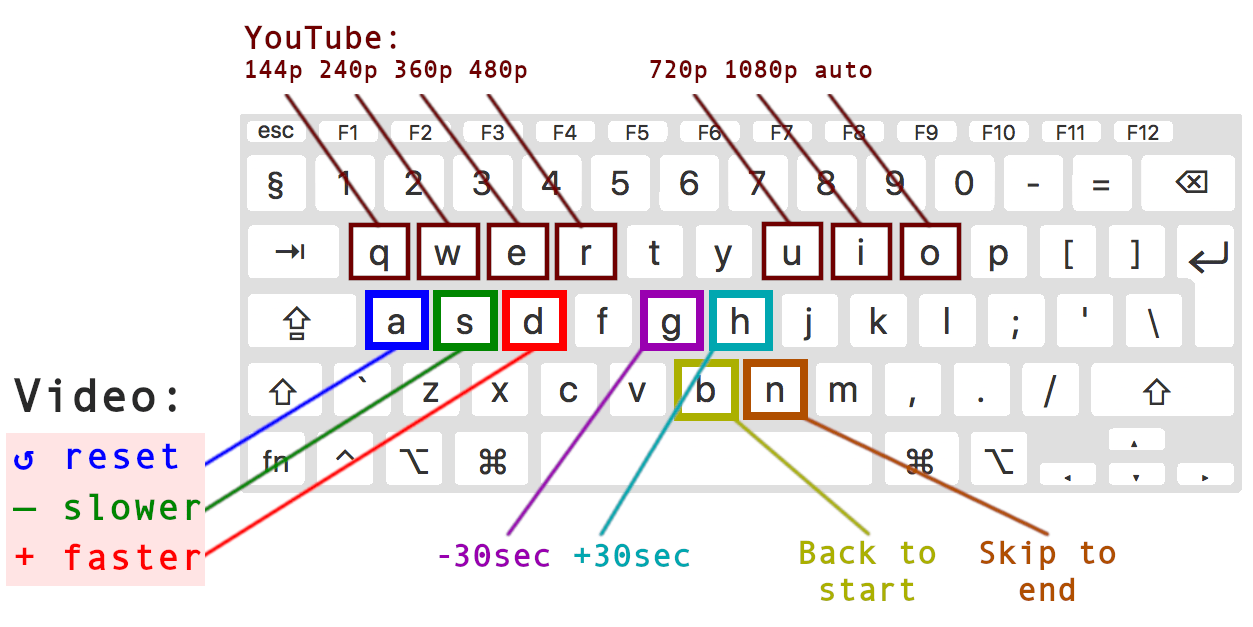
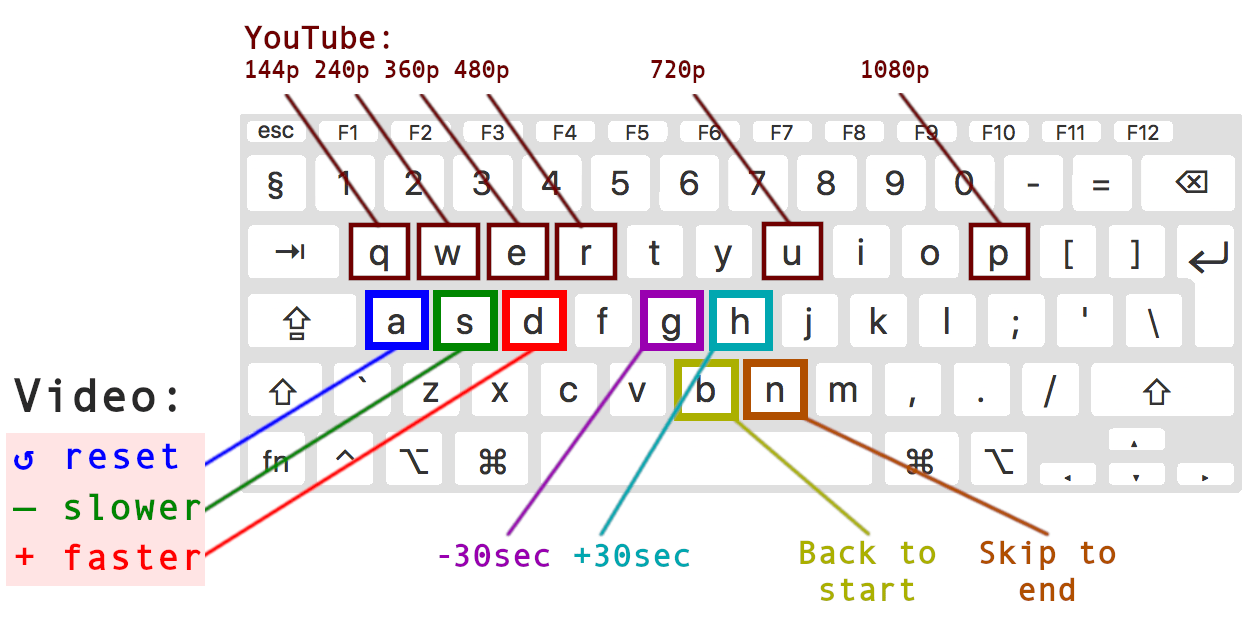
Fix Trusted Types error by marking HTML as trusted | Fix 1080p resolution not working | Update help image

diff --git a/index.html b/index.html
@@ -1,6 +1,6 @@
 <p>Drag this link into your bookmarks bar to install Video Speed Controller Bookmarklet</p>
 <p><a href="
 javascript:(function(){
-var%20speed%3D1.5%3Bvar%20seek%3D0%3Bvar%20player%3Ddocument.getElementById(%22movie_player%22)%3Bif(document.activeElement){document.activeElement.blur()}function%20addEvent(element%2CeventName%2Ccallback){if(element.addEventListener){element.addEventListener(eventName%2Ccallback%2Cfalse)}else%20if(element.attachEvent){element.attachEvent(%22on%22%2BeventName%2Ccallback)}else{element%5B%22on%22%2BeventName%5D%3Dcallback}}function%20clamp(num%2Cmin%2Cmax){return%20num<%3Dmin%3Fmin%3Anum>%3Dmax%3Fmax%3Anum}function%20YTQuality(q){if(!player)return%20false%3Bswitch(q){case%22q%22%3Aplayer.setPlaybackQualityRange(%22tiny%22)%3Bbreak%3Bcase%22w%22%3Aplayer.setPlaybackQualityRange(%22small%22)%3Bbreak%3Bcase%22e%22%3Aplayer.setPlaybackQualityRange(%22medium%22)%3Bbreak%3Bcase%22r%22%3Aplayer.setPlaybackQualityRange(%22large%22)%3Bbreak%3Bcase%22u%22%3Aplayer.setPlaybackQualityRange(%22hd720%22)%3Bbreak%3Bcase%22i%22%3Aplayer.setPlaybackQualityRange(%22hd1080%22)%3Bbreak%3Bcase%22o%22%3Aplayer.setPlaybackQualityRange(%22auto%22)%3Bbreak}switch(player.getPlaybackQuality()){case%22auto%22%3Areturn%22auto%22%3Bcase%22tiny%22%3Areturn%22144p%22%3Bcase%22small%22%3Areturn%22240p%22%3Bcase%22medium%22%3Areturn%22360p%22%3Bcase%22large%22%3Areturn%22480p%22%3Bcase%22hd720%22%3Areturn%22720p%22%3Bcase%22hd1080%22%3Areturn%221080p%22}}addEvent(document%2C%22keypress%22%2Cfunction(e){var%20target%3De.target||e.srcElement%3Bif(/INPUT|TEXTAREA|SELECT|BUTTON/.test(target.nodeName))return%3Be%3De||window.event%3Bvar%20ytq%3DYTQuality(e.key)%3Bif(e.key%3D%3D%22a%22)speed%3D1%3Bif(e.key%3D%3D%22s%22){speed%3Dspeed<%3D.25%3F.05%3Aspeed-.25}if(e.key%3D%3D%22d%22){if(speed%3D%3D.05)speed%3D0%3Bspeed%2B%3D.25}speed%3Dclamp(speed%2C0%2C6)%3Bvar%20speedlabels%3Ddocument.getElementsByClassName(%22speedlabel%22)%3Bfor(var%20i%3D0%3Bi<speedlabels.length%3Bi%2B%2B){speedlabels%5Bi%5D.innerHTML%3Dspeed%2B%22x%22%2B(ytq%3F%22<br>%22%2Bytq%3A%22%22)}if(e.key%3D%3D%22g%22){seek%3D-30}if(e.key%3D%3D%22h%22){seek%3D30}if(e.key%3D%3D%22b%22){seek%3D-1e6}if(e.key%3D%3D%22n%22){seek%3D1e6}})%3BsetInterval(function(){videospeed()}%2C500)%3Bfunction%20videospeed(){var%20style%3D%22\t<style>\t\t.speedlabel{\t\t\tposition%3Aabsolute%3B\t\t\tz-index%3A999%3B\t\t\twidth%3A30px%3B\t\t\tleft%3A10px%3B\t\t\ttop%3A10px%3B\t\t\ttext-align%3A%20center%3B\t\t\tcolor%3A%23ccc%3B\t\t\tbackground-color%3Argba(0%2C0%2C0%2C0.3)%3B\t\t}\t</style>\t%22%3Bvideos%3Ddocument.querySelectorAll(%22video%22)%3Bfor(var%20i%3D0%3Bi<videos.length%3Bi%2B%2B){if(videos%5Bi%5D%26%26videos%5Bi%5D.readyState>%3D2){videos%5Bi%5D.playbackRate%3Dspeed%3Bvideos%5Bi%5D.mozPreservesPitch%3Dvideos%5Bi%5D.webkitPreservesPitch%3Dvideos%5Bi%5D.preservePitch%3Dtrue}if(seek!%3D0){videos%5Bi%5D.currentTime%2B%3Dseek%3Bseek%3D0}if(!videos%5Bi%5D.hasAttribute(%22speedlabel%22)){videos%5Bi%5D.setAttribute(%22speedlabel%22%2C%22true%22)%3Bvar%20ytq%3DYTQuality()%3Bvar%20speedlabel%3D'<div%20class%3D%22speedlabel%22>'%2Bspeed%2B%22x%22%2B(ytq%3F%22<br>%22%2Bytq%3A%22%22)%2B%22</div>%22%3Bvideos%5Bi%5D.insertAdjacentHTML(%22beforebegin%22%2Cspeedlabel%2Bstyle)}}}})()
+var%20speed%3D1.5%3Bvar%20seek%3D0%3Bvar%20player%3Ddocument.getElementById(%22movie_player%22)%3Bif(document.activeElement){document.activeElement.blur()}function%20addEvent(element%2CeventName%2Ccallback){if(element.addEventListener){element.addEventListener(eventName%2Ccallback%2Cfalse)}else%20if(element.attachEvent){element.attachEvent(%22on%22%2BeventName%2Ccallback)}else{element%5B%22on%22%2BeventName%5D%3Dcallback}}function%20clamp(num%2Cmin%2Cmax){return%20num<%3Dmin%3Fmin%3Anum>%3Dmax%3Fmax%3Anum}function%20YTQuality(q){if(!player)return%20false%3Bswitch(q){case%22q%22%3Aplayer.setPlaybackQualityRange(%22tiny%22)%3Bbreak%3Bcase%22w%22%3Aplayer.setPlaybackQualityRange(%22small%22)%3Bbreak%3Bcase%22e%22%3Aplayer.setPlaybackQualityRange(%22medium%22)%3Bbreak%3Bcase%22r%22%3Aplayer.setPlaybackQualityRange(%22large%22)%3Bbreak%3Bcase%22u%22%3Aplayer.setPlaybackQualityRange(%22hd720%22)%3Bbreak%3Bcase%22p%22%3Aplayer.setPlaybackQualityRange(%22hd1080%22)%3Bbreak%3Bcase%22o%22%3Aplayer.setPlaybackQualityRange(%22auto%22)%3Bbreak}switch(player.getPlaybackQuality()){case%22auto%22%3Areturn%22auto%22%3Bcase%22tiny%22%3Areturn%22144p%22%3Bcase%22small%22%3Areturn%22240p%22%3Bcase%22medium%22%3Areturn%22360p%22%3Bcase%22large%22%3Areturn%22480p%22%3Bcase%22hd720%22%3Areturn%22720p%22%3Bcase%22hd1080%22%3Areturn%221080p%22}}addEvent(document%2C%22keypress%22%2Cfunction(e){var%20target%3De.target||e.srcElement%3Bif(/INPUT|TEXTAREA|SELECT|BUTTON/.test(target.nodeName))return%3Be%3De||window.event%3Bvar%20ytq%3DYTQuality(e.key)%3Bif(e.key%3D%3D%22a%22)speed%3D1%3Bif(e.key%3D%3D%22s%22){speed%3Dspeed<%3D.25%3F.05%3Aspeed-.25}if(e.key%3D%3D%22d%22){if(speed%3D%3D.05)speed%3D0%3Bspeed%2B%3D.25}speed%3Dclamp(speed%2C0%2C6)%3Bvar%20speedlabels%3Ddocument.getElementsByClassName(%22speedlabel%22)%3Bfor(var%20i%3D0%3Bi<speedlabels.length%3Bi%2B%2B){speedlabels%5Bi%5D.innerHTML%3Dspeed%2B%22x%22%2B(ytq%3F%22<br>%22%2Bytq%3A%22%22)}if(e.key%3D%3D%22g%22){seek%3D-30}if(e.key%3D%3D%22h%22){seek%3D30}if(e.key%3D%3D%22b%22){seek%3D-1e6}if(e.key%3D%3D%22n%22){seek%3D1e6}})%3Bif(window.trustedTypes%26%26window.trustedTypes.createPolicy){window.trustedTypes.createPolicy(%22default%22%2C{createHTML%3Astring%3D>string})}setInterval(function(){videospeed()}%2C500)%3Bfunction%20videospeed(){var%20style%3D%22\t<style>\t\t.speedlabel{\t\t\tposition%3Aabsolute%3B\t\t\tz-index%3A999%3B\t\t\twidth%3A30px%3B\t\t\tleft%3A10px%3B\t\t\ttop%3A10px%3B\t\t\ttext-align%3A%20center%3B\t\t\tcolor%3A%23ccc%3B\t\t\tbackground-color%3Argba(0%2C0%2C0%2C0.3)%3B\t\t}\t</style>\t%22%3Bvideos%3Ddocument.querySelectorAll(%22video%22)%3Bfor(var%20i%3D0%3Bi<videos.length%3Bi%2B%2B){if(videos%5Bi%5D%26%26videos%5Bi%5D.readyState>%3D2){videos%5Bi%5D.playbackRate%3Dspeed%3Bvideos%5Bi%5D.mozPreservesPitch%3Dvideos%5Bi%5D.webkitPreservesPitch%3Dvideos%5Bi%5D.preservePitch%3Dtrue}if(seek!%3D0){videos%5Bi%5D.currentTime%2B%3Dseek%3Bseek%3D0}if(!videos%5Bi%5D.hasAttribute(%22speedlabel%22)){videos%5Bi%5D.setAttribute(%22speedlabel%22%2C%22true%22)%3Bvar%20ytq%3DYTQuality()%3Bvar%20speedlabel%3D'<div%20class%3D%22speedlabel%22>'%2Bspeed%2B%22x%22%2B(ytq%3F%22<br>%22%2Bytq%3A%22%22)%2B%22</div>%22%3Bvar%20trustedcontent%3Dwindow.trustedTypes.defaultPolicy.createHTML(speedlabel%2Bstyle)%3Bvideos%5Bi%5D.insertAdjacentHTML(%22beforebegin%22%2Ctrustedcontent)}}}})()
 ">VIDEO-SPEED</a></p>
 <img style='border:5px solid gray; margin-top:50px;' src='install.gif'>

diff --git a/video-speed-controller.bookmarklet.js b/video-speed-controller.bookmarklet.js
@@ -1,2 +1,2 @@
 javascript:(function(){
-var%20speed%3D1.5%3Bvar%20seek%3D0%3Bvar%20player%3Ddocument.getElementById(%22movie_player%22)%3Bif(document.activeElement){document.activeElement.blur()}function%20addEvent(element%2CeventName%2Ccallback){if(element.addEventListener){element.addEventListener(eventName%2Ccallback%2Cfalse)}else%20if(element.attachEvent){element.attachEvent(%22on%22%2BeventName%2Ccallback)}else{element%5B%22on%22%2BeventName%5D%3Dcallback}}function%20clamp(num%2Cmin%2Cmax){return%20num<%3Dmin%3Fmin%3Anum>%3Dmax%3Fmax%3Anum}function%20YTQuality(q){if(!player)return%20false%3Bswitch(q){case%22q%22%3Aplayer.setPlaybackQualityRange(%22tiny%22)%3Bbreak%3Bcase%22w%22%3Aplayer.setPlaybackQualityRange(%22small%22)%3Bbreak%3Bcase%22e%22%3Aplayer.setPlaybackQualityRange(%22medium%22)%3Bbreak%3Bcase%22r%22%3Aplayer.setPlaybackQualityRange(%22large%22)%3Bbreak%3Bcase%22u%22%3Aplayer.setPlaybackQualityRange(%22hd720%22)%3Bbreak%3Bcase%22i%22%3Aplayer.setPlaybackQualityRange(%22hd1080%22)%3Bbreak%3Bcase%22o%22%3Aplayer.setPlaybackQualityRange(%22auto%22)%3Bbreak}switch(player.getPlaybackQuality()){case%22auto%22%3Areturn%22auto%22%3Bcase%22tiny%22%3Areturn%22144p%22%3Bcase%22small%22%3Areturn%22240p%22%3Bcase%22medium%22%3Areturn%22360p%22%3Bcase%22large%22%3Areturn%22480p%22%3Bcase%22hd720%22%3Areturn%22720p%22%3Bcase%22hd1080%22%3Areturn%221080p%22}}addEvent(document%2C%22keypress%22%2Cfunction(e){var%20target%3De.target||e.srcElement%3Bif(/INPUT|TEXTAREA|SELECT|BUTTON/.test(target.nodeName))return%3Be%3De||window.event%3Bvar%20ytq%3DYTQuality(e.key)%3Bif(e.key%3D%3D%22a%22)speed%3D1%3Bif(e.key%3D%3D%22s%22){speed%3Dspeed<%3D.25%3F.05%3Aspeed-.25}if(e.key%3D%3D%22d%22){if(speed%3D%3D.05)speed%3D0%3Bspeed%2B%3D.25}speed%3Dclamp(speed%2C0%2C6)%3Bvar%20speedlabels%3Ddocument.getElementsByClassName(%22speedlabel%22)%3Bfor(var%20i%3D0%3Bi<speedlabels.length%3Bi%2B%2B){speedlabels%5Bi%5D.innerHTML%3Dspeed%2B%22x%22%2B(ytq%3F%22<br>%22%2Bytq%3A%22%22)}if(e.key%3D%3D%22g%22){seek%3D-30}if(e.key%3D%3D%22h%22){seek%3D30}if(e.key%3D%3D%22b%22){seek%3D-1e6}if(e.key%3D%3D%22n%22){seek%3D1e6}})%3BsetInterval(function(){videospeed()}%2C500)%3Bfunction%20videospeed(){var%20style%3D%22\t<style>\t\t.speedlabel{\t\t\tposition%3Aabsolute%3B\t\t\tz-index%3A999%3B\t\t\twidth%3A30px%3B\t\t\tleft%3A10px%3B\t\t\ttop%3A10px%3B\t\t\ttext-align%3A%20center%3B\t\t\tcolor%3A%23ccc%3B\t\t\tbackground-color%3Argba(0%2C0%2C0%2C0.3)%3B\t\t}\t</style>\t%22%3Bvideos%3Ddocument.querySelectorAll(%22video%22)%3Bfor(var%20i%3D0%3Bi<videos.length%3Bi%2B%2B){if(videos%5Bi%5D%26%26videos%5Bi%5D.readyState>%3D2){videos%5Bi%5D.playbackRate%3Dspeed%3Bvideos%5Bi%5D.mozPreservesPitch%3Dvideos%5Bi%5D.webkitPreservesPitch%3Dvideos%5Bi%5D.preservePitch%3Dtrue}if(seek!%3D0){videos%5Bi%5D.currentTime%2B%3Dseek%3Bseek%3D0}if(!videos%5Bi%5D.hasAttribute(%22speedlabel%22)){videos%5Bi%5D.setAttribute(%22speedlabel%22%2C%22true%22)%3Bvar%20ytq%3DYTQuality()%3Bvar%20speedlabel%3D'<div%20class%3D%22speedlabel%22>'%2Bspeed%2B%22x%22%2B(ytq%3F%22<br>%22%2Bytq%3A%22%22)%2B%22</div>%22%3Bvideos%5Bi%5D.insertAdjacentHTML(%22beforebegin%22%2Cspeedlabel%2Bstyle)}}}})()
+var%20speed%3D1.5%3Bvar%20seek%3D0%3Bvar%20player%3Ddocument.getElementById(%22movie_player%22)%3Bif(document.activeElement){document.activeElement.blur()}function%20addEvent(element%2CeventName%2Ccallback){if(element.addEventListener){element.addEventListener(eventName%2Ccallback%2Cfalse)}else%20if(element.attachEvent){element.attachEvent(%22on%22%2BeventName%2Ccallback)}else{element%5B%22on%22%2BeventName%5D%3Dcallback}}function%20clamp(num%2Cmin%2Cmax){return%20num<%3Dmin%3Fmin%3Anum>%3Dmax%3Fmax%3Anum}function%20YTQuality(q){if(!player)return%20false%3Bswitch(q){case%22q%22%3Aplayer.setPlaybackQualityRange(%22tiny%22)%3Bbreak%3Bcase%22w%22%3Aplayer.setPlaybackQualityRange(%22small%22)%3Bbreak%3Bcase%22e%22%3Aplayer.setPlaybackQualityRange(%22medium%22)%3Bbreak%3Bcase%22r%22%3Aplayer.setPlaybackQualityRange(%22large%22)%3Bbreak%3Bcase%22u%22%3Aplayer.setPlaybackQualityRange(%22hd720%22)%3Bbreak%3Bcase%22p%22%3Aplayer.setPlaybackQualityRange(%22hd1080%22)%3Bbreak%3Bcase%22o%22%3Aplayer.setPlaybackQualityRange(%22auto%22)%3Bbreak}switch(player.getPlaybackQuality()){case%22auto%22%3Areturn%22auto%22%3Bcase%22tiny%22%3Areturn%22144p%22%3Bcase%22small%22%3Areturn%22240p%22%3Bcase%22medium%22%3Areturn%22360p%22%3Bcase%22large%22%3Areturn%22480p%22%3Bcase%22hd720%22%3Areturn%22720p%22%3Bcase%22hd1080%22%3Areturn%221080p%22}}addEvent(document%2C%22keypress%22%2Cfunction(e){var%20target%3De.target||e.srcElement%3Bif(/INPUT|TEXTAREA|SELECT|BUTTON/.test(target.nodeName))return%3Be%3De||window.event%3Bvar%20ytq%3DYTQuality(e.key)%3Bif(e.key%3D%3D%22a%22)speed%3D1%3Bif(e.key%3D%3D%22s%22){speed%3Dspeed<%3D.25%3F.05%3Aspeed-.25}if(e.key%3D%3D%22d%22){if(speed%3D%3D.05)speed%3D0%3Bspeed%2B%3D.25}speed%3Dclamp(speed%2C0%2C6)%3Bvar%20speedlabels%3Ddocument.getElementsByClassName(%22speedlabel%22)%3Bfor(var%20i%3D0%3Bi<speedlabels.length%3Bi%2B%2B){speedlabels%5Bi%5D.innerHTML%3Dspeed%2B%22x%22%2B(ytq%3F%22<br>%22%2Bytq%3A%22%22)}if(e.key%3D%3D%22g%22){seek%3D-30}if(e.key%3D%3D%22h%22){seek%3D30}if(e.key%3D%3D%22b%22){seek%3D-1e6}if(e.key%3D%3D%22n%22){seek%3D1e6}})%3Bif(window.trustedTypes%26%26window.trustedTypes.createPolicy){window.trustedTypes.createPolicy(%22default%22%2C{createHTML%3Astring%3D>string})}setInterval(function(){videospeed()}%2C500)%3Bfunction%20videospeed(){var%20style%3D%22\t<style>\t\t.speedlabel{\t\t\tposition%3Aabsolute%3B\t\t\tz-index%3A999%3B\t\t\twidth%3A30px%3B\t\t\tleft%3A10px%3B\t\t\ttop%3A10px%3B\t\t\ttext-align%3A%20center%3B\t\t\tcolor%3A%23ccc%3B\t\t\tbackground-color%3Argba(0%2C0%2C0%2C0.3)%3B\t\t}\t</style>\t%22%3Bvideos%3Ddocument.querySelectorAll(%22video%22)%3Bfor(var%20i%3D0%3Bi<videos.length%3Bi%2B%2B){if(videos%5Bi%5D%26%26videos%5Bi%5D.readyState>%3D2){videos%5Bi%5D.playbackRate%3Dspeed%3Bvideos%5Bi%5D.mozPreservesPitch%3Dvideos%5Bi%5D.webkitPreservesPitch%3Dvideos%5Bi%5D.preservePitch%3Dtrue}if(seek!%3D0){videos%5Bi%5D.currentTime%2B%3Dseek%3Bseek%3D0}if(!videos%5Bi%5D.hasAttribute(%22speedlabel%22)){videos%5Bi%5D.setAttribute(%22speedlabel%22%2C%22true%22)%3Bvar%20ytq%3DYTQuality()%3Bvar%20speedlabel%3D'<div%20class%3D%22speedlabel%22>'%2Bspeed%2B%22x%22%2B(ytq%3F%22<br>%22%2Bytq%3A%22%22)%2B%22</div>%22%3Bvar%20trustedcontent%3Dwindow.trustedTypes.defaultPolicy.createHTML(speedlabel%2Bstyle)%3Bvideos%5Bi%5D.insertAdjacentHTML(%22beforebegin%22%2Ctrustedcontent)}}}})()

diff --git a/video-speed-controller.js b/video-speed-controller.js
@@ -6,8 +6,8 @@
  * - Playback quality control (only on YouTube.com): q, w, e, r,  u, i, o
  *
  * @author Lorand Horvath <email at hlorand dot hu>
- * @version 0.2
- * @copyright 2019-2020 hlorand.hu
+ * @version 0.3
+ * @copyright 2019-2025 hlorand.hu
  */
 
 // Initial speed
@@ -46,7 +46,7 @@ function YTQuality(q){
 		case "e": player.setPlaybackQualityRange("medium"); break;
 		case "r": player.setPlaybackQualityRange("large"); break;
 		case "u": player.setPlaybackQualityRange("hd720"); break;
-		case "i": player.setPlaybackQualityRange("hd1080"); break;
+		case "p": player.setPlaybackQualityRange("hd1080"); break;
 		case "o": player.setPlaybackQualityRange("auto"); break;
 		//case "g": player.seekTo( player.getCurrentTime() - 30 ); break;
 		//case "h": player.seekTo( player.getCurrentTime() + 30 ); break;
@@ -119,6 +119,12 @@ addEvent(document, "keypress", function (e) {
 
 });
 
+if (window.trustedTypes && window.trustedTypes.createPolicy) {
+  window.trustedTypes.createPolicy('default', {
+    createHTML: (string) => string,
+  });
+}
+
 // Detect new videos every 500ms
 setInterval(function() { videospeed() }, 500);
 
@@ -171,7 +177,9 @@ function videospeed() {
 
 			var speedlabel  = '<div class="speedlabel">' + speed + 'x' + (ytq?"<br>"+ytq:"") + '</div>';
 
-			videos[i].insertAdjacentHTML('beforebegin', speedlabel + style);
+			var trustedcontent  = window.trustedTypes.defaultPolicy.createHTML(speedlabel + style);
+
+			videos[i].insertAdjacentHTML('beforebegin', trustedcontent);
 		}
  	}
 }
